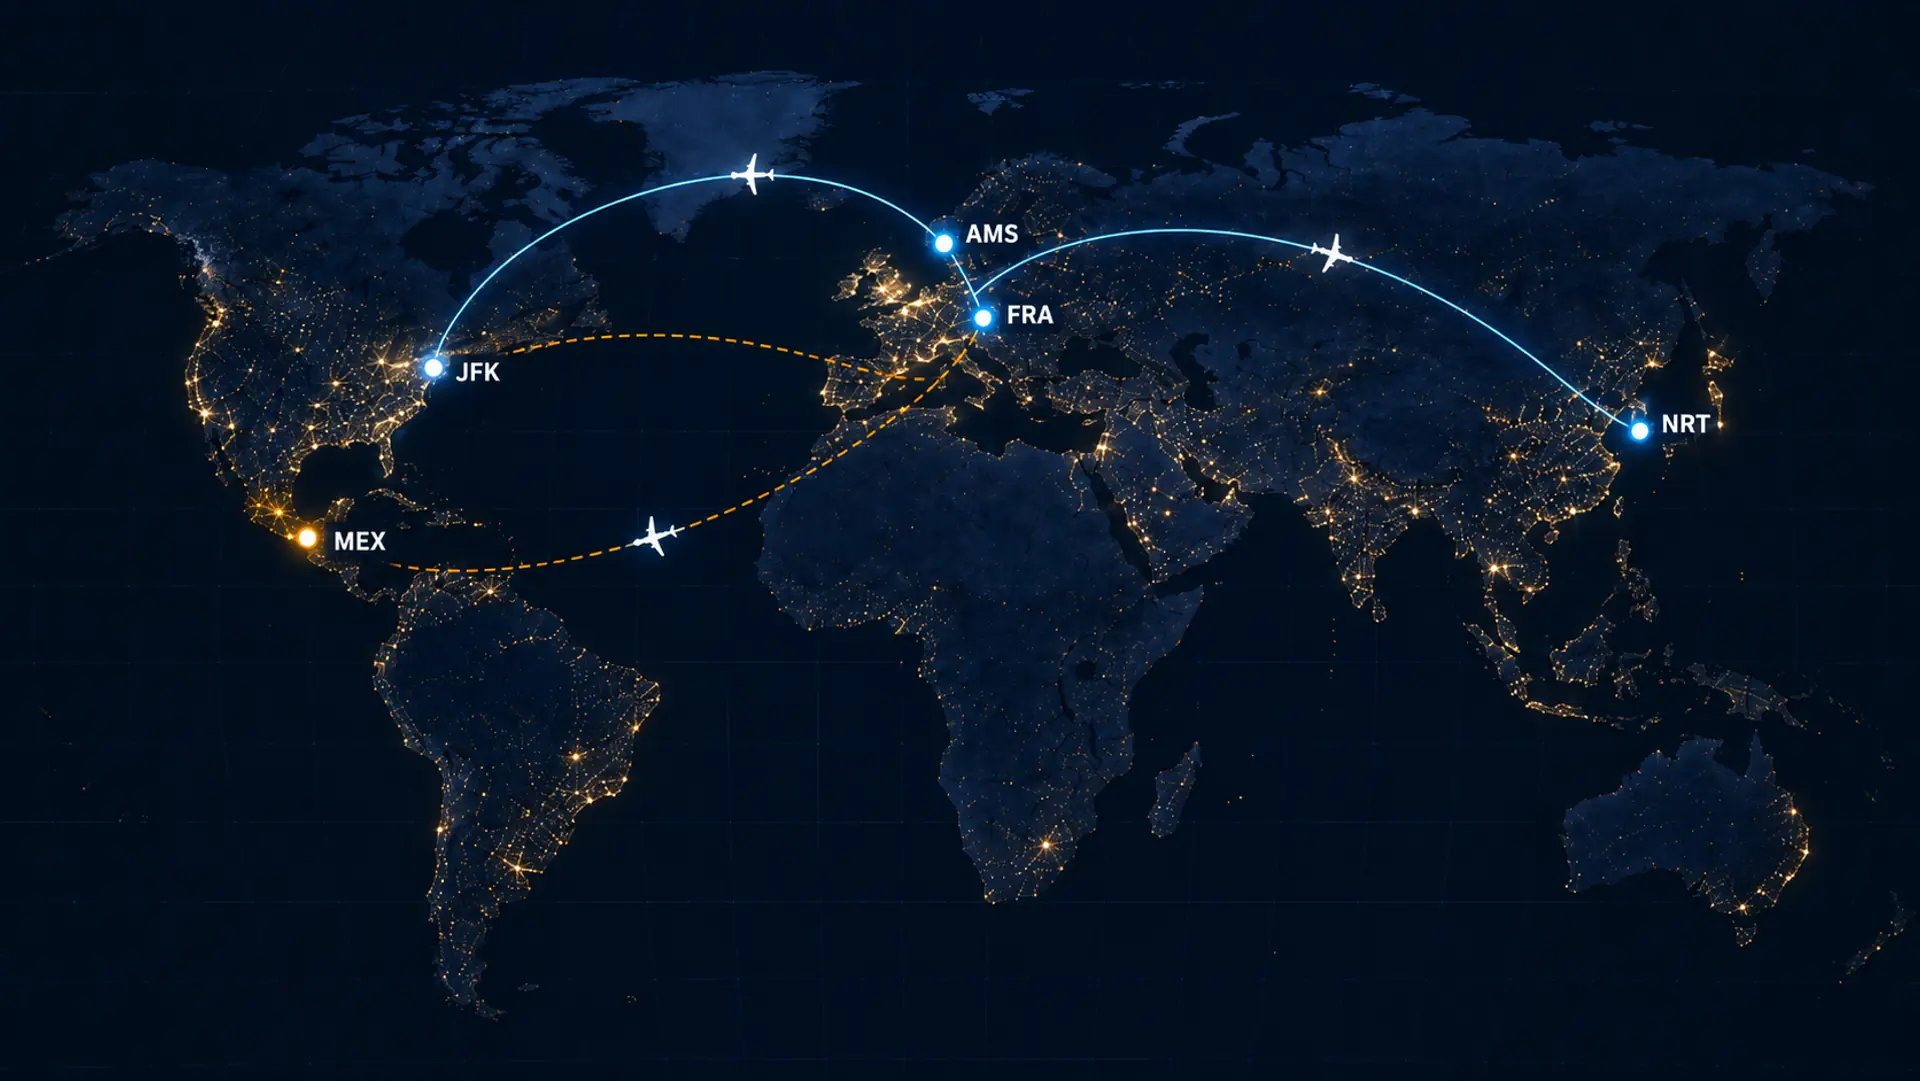
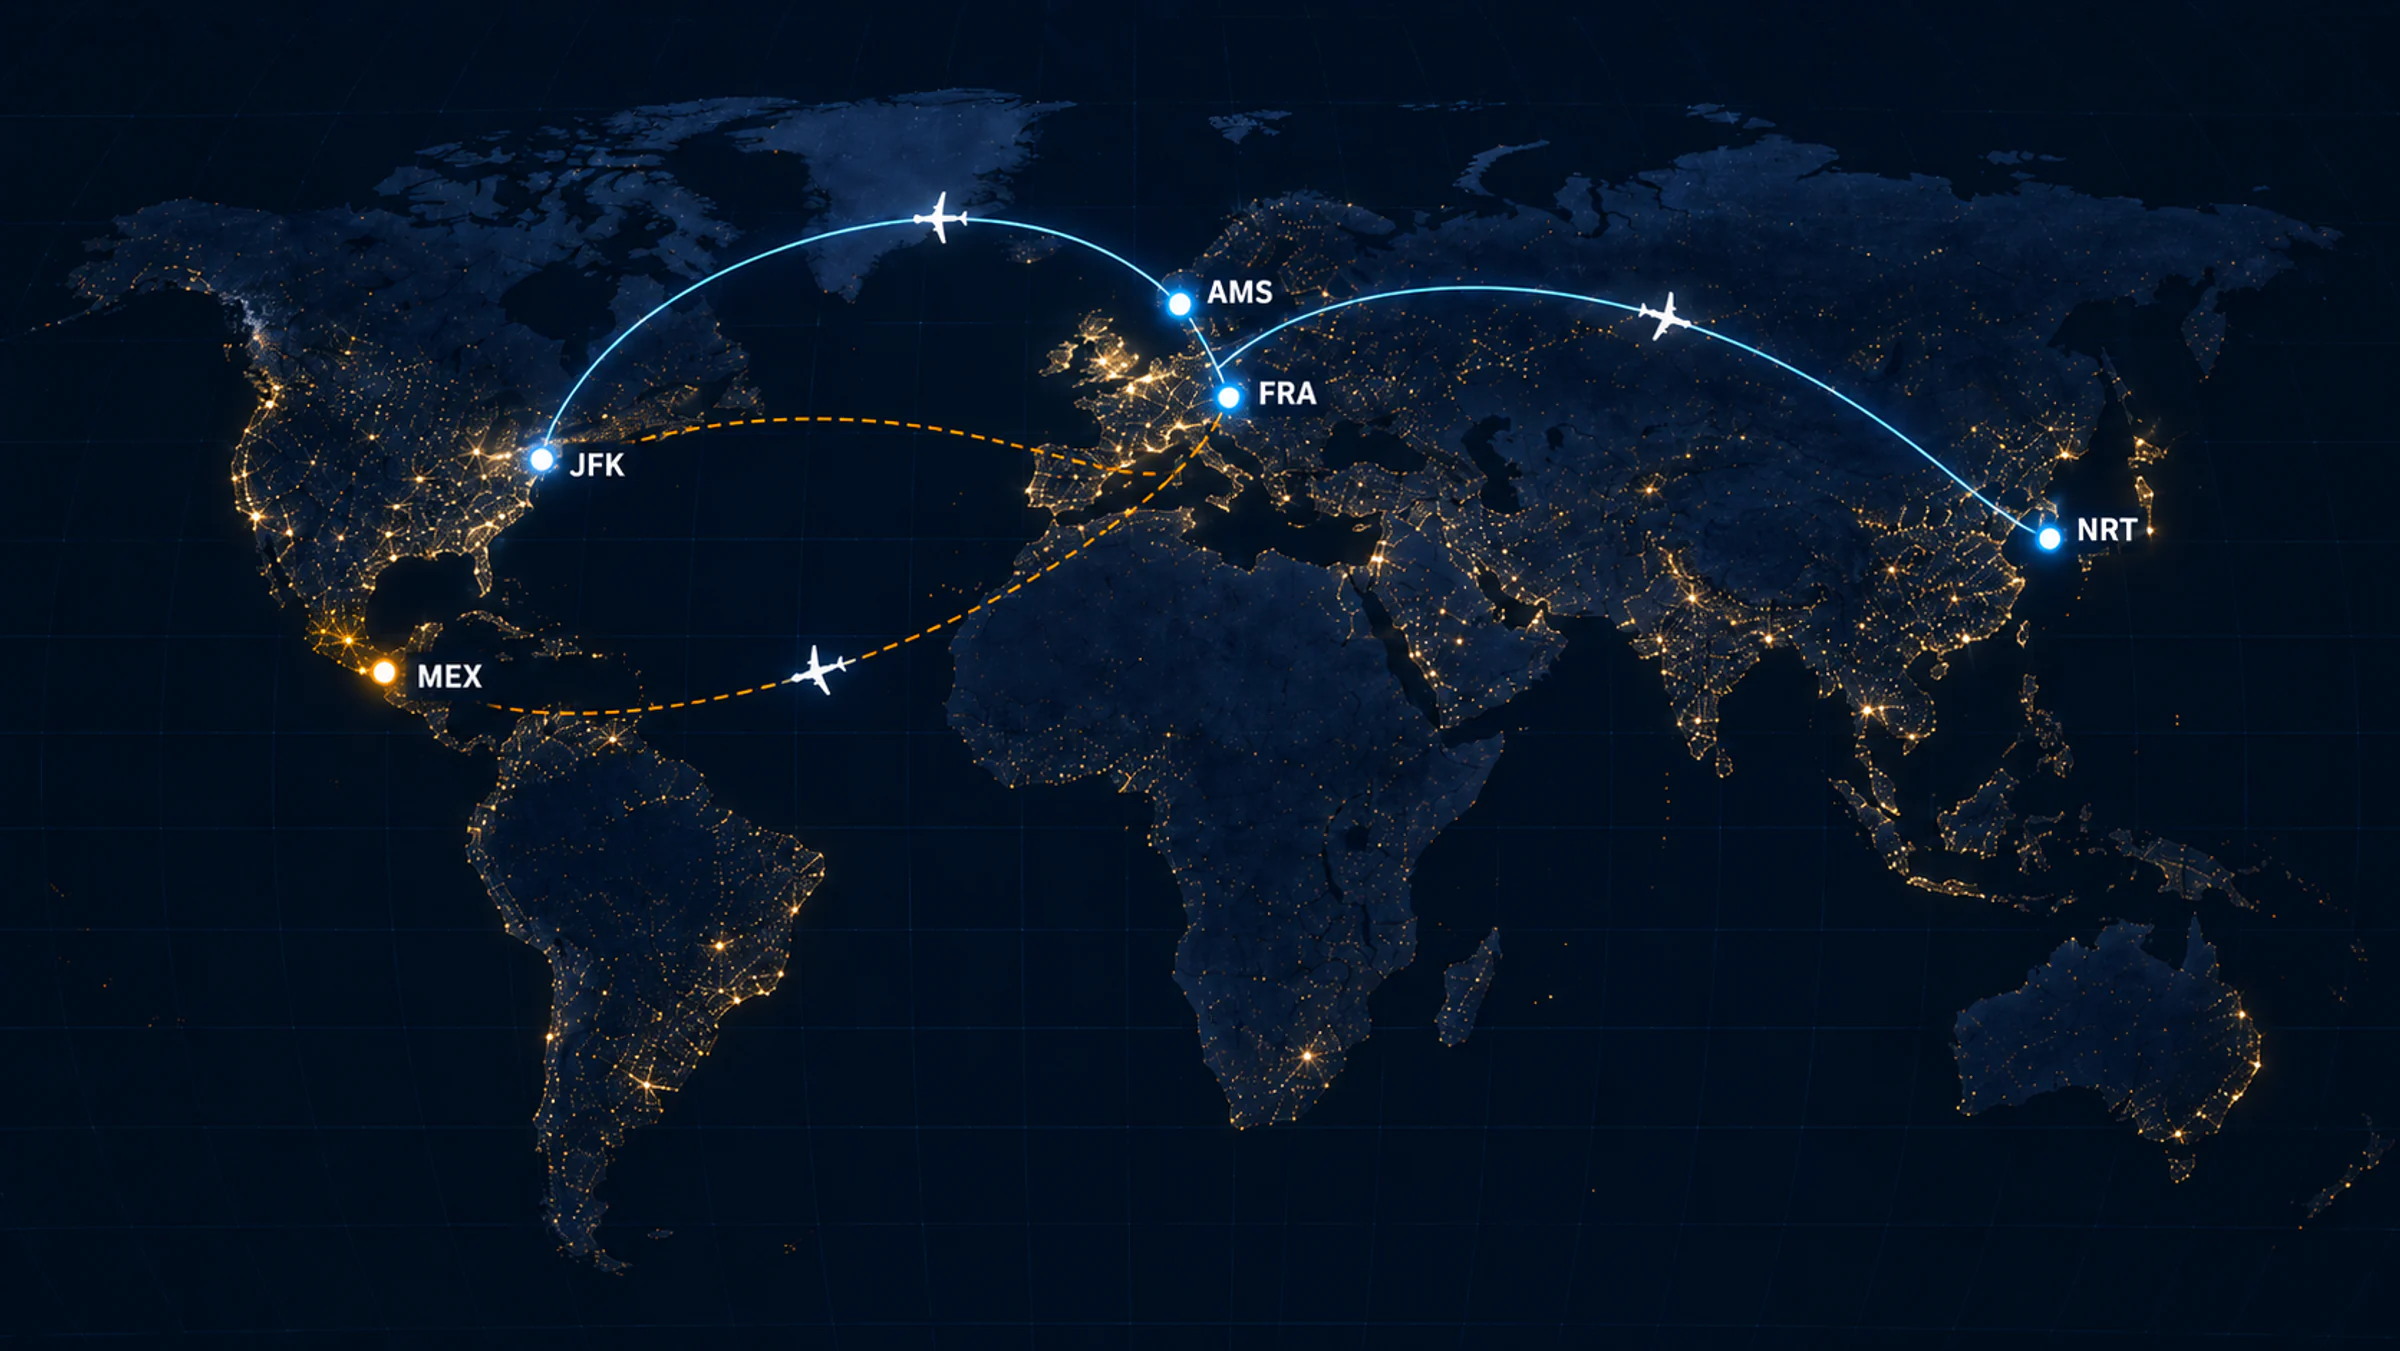
feat(web): move the map right, tint the wash blue, and re-encode it sharper
Three notes from review of the hero, all about the same thing: the Americas were
not readable.

**The map moves right.** It was a full-width `cover` background, which put the
Americas directly under the headline — measuring the mock, its map is inset to
about the right two-thirds and JFK lands near the middle of the page, clear of
the text. So the map is now its own layer at 68% width, anchored right, and JFK
sits at 48% against the mock's 51%.

`cover` cannot express that, and the first attempt at it proved why: the box is
taller than the map is proportioned, so cover scaled to the height and cropped
the sides — taking the Americas off the left edge, which is the opposite of the
point. `background-size: 100% auto` fits the width and letterboxes instead, and a
mask feathers the top and bottom so the map's own deep-navy dissolves into the
page rather than drawing a line across the hero.

**The wash is blue, not black.** It was `--bg` at up to 90% opacity, which
flattened the map to nothing exactly where the Americas are. A blue tint
(`--wash`, the map's own navy) at lower opacity gives the headline the same
contrast floor while leaving coastline and city lights visible through it, so the
left of the hero reads as ocean rather than as a black panel.

**Sharper.** 1920px at quality 72 → **2400px at 86**, lanczos3, 90 kB → 227 kB.
Quality 72 blotches on a dark starfield, which is most of this image, and the map
[…]

Changed region(s): [[0.2188, 0.519, 0.25, 0.5495]]

diff --git a/packages/web/landing/landing.css b/packages/web/landing/landing.css
@@ -26,6 +26,9 @@
   --muted: #8494ad;
   --accent: #ffb84d;
   --link: #4a9eff;
+  /* The map's own deep navy — what the hero's wash is tinted with, so the
+     overlay belongs to the image rather than flattening it to page black. */
+  --wash: #0b1a38;
   /* Provider brand colours: Google blue and Discord blurple, as published. */
   --google: #4285f4;
   --discord: #5865f2;
@@ -198,58 +201,105 @@ a {
   align-items: center;
   min-height: max(34rem, calc(100svh - 4.5rem));
   padding-block: clamp(2rem, 5vw, 4rem);
-
-  /*
-   * The map, and a gradient that makes the text legible over it.
-   *
-   * Two layers in one property so they share a stacking context and neither can
-   * be painted over by a child. The gradient is opaque at the left edge and
-   * clear by 78%, which is what puts the headline on solid ground while leaving
-   * the Pacific and Asia visible — the same balance as the mock.
-   *
-   * `background-color` is set to the page background as well, so the hero is the
-   * right colour before the image arrives and if it never does.
-   */
   background-color: var(--bg);
-  background-image:
-    /* Opaque only where the headline actually sits, then out of the way fast.
-       The first attempt held 62% opacity at the halfway mark and buried the
-       Americas — the very part of the map the mock leaves legible under the
-       copy. Text needs a floor to sit on, not the whole ocean painted out. */
-    linear-gradient(
-      100deg,
-      var(--bg) 0%,
-      rgba(6, 10, 18, 0.9) 18%,
-      rgba(6, 10, 18, 0.55) 36%,
-      rgba(6, 10, 18, 0.16) 56%,
-      rgba(6, 10, 18, 0) 72%
-    ),
-    /* A second wash from the bottom, so the section below meets the map rather
-       than colliding with it. */
-    linear-gradient(to bottom, rgba(6, 10, 18, 0) 55%, var(--bg) 100%),
-    url('/landing-hero.webp');
-  background-repeat: no-repeat;
-  background-position:
-    center,
-    center,
-    center right;
-  background-size: cover, cover, cover;
 }
 
-/* Narrow screens get the map as a quiet texture: at this width the gradient
-   would have to cover almost all of it to keep the text readable, and a map you
-   cannot see is weight without benefit. */
+/*
+ * The map, as its own layer rather than a background on `.hero`.
+ *
+ * A pseudo-element because the map is **inset to the right** rather than
+ * covering the section: measured off the mock, it occupies about the right 72%
+ * of the hero, which is what puts the Americas clear of the headline instead of
+ * underneath it. `background-size: cover` cannot express that — cover fills the
+ * box, so the only way to move the map right is to crop the Americas off the
+ * left, which is the opposite of what is wanted.
+ *
+ * Its own element also means the fades below can sit on top of the map without
+ * also fading the section, and the map can be positioned without fighting the
+ * gradient's own `background-position`.
+ */
+.hero::before {
+  content: '';
+  position: absolute;
+  inset: 0 0 0 auto;
+  width: 68%;
+  background-image: url('/landing-hero.webp');
+  background-repeat: no-repeat;
+  background-position: center;
+  /*
+   * `100% auto`, not `cover`. Cover fills the box, and this box is taller than
+   * the map is proportioned — so cover scales to the height and crops the sides,
+   * which took the Americas off the left edge. Fitting the width shows the whole
+   * world and letterboxes vertically instead.
+   */
+  background-size: 100% auto;
+  /*
+   * The letterbox is why this mask exists. The map carries its own deep-navy
+   * background, and where that meets the page's near-black it draws a horizontal
+   * line across the hero. Feathering the top and bottom dissolves the seam, so an
+   * inset map reads as part of the page rather than as a pasted rectangle.
+   */
+  mask-image: linear-gradient(to bottom, transparent 0%, #000 16%, #000 84%, transparent 100%);
+  pointer-events: none;
+}
+
+/*
+ * The wash over it, and the reason it is blue rather than black.
+ *
+ * The headline needs a floor to sit on, but painting it in the page's near-black
+ * flattens the map to nothing exactly where the Americas are — the part the mock
+ * deliberately keeps legible. A **blue** tint at lower opacity does the same job
+ * for contrast while leaving the coastline and city lights visible through it, so
+ * the left of the hero still reads as ocean rather than as a black panel.
+ *
+ * `--wash` is the map's own deep-navy rather than `--bg`, so the tint belongs to
+ * the image it sits on.
+ */
+.hero::after {
+  content: '';
+  position: absolute;
+  inset: 0;
+  pointer-events: none;
+  background-image:
+    linear-gradient(
+      100deg,
+      var(--wash) 0%,
+      rgba(11, 26, 56, 0.88) 24%,
+      rgba(11, 26, 56, 0.6) 40%,
+      rgba(11, 26, 56, 0.22) 58%,
+      rgba(11, 26, 56, 0) 74%
+    ),
+    /* Feathers the map's left edge into the page so the inset does not read as a
+       pasted rectangle. */
+    linear-gradient(to right, var(--bg) 0%, rgba(6, 10, 18, 0) 26%),
+    /* And the bottom, so the section below meets the map rather than colliding. */
+    linear-gradient(to bottom, rgba(6, 10, 18, 0) 62%, var(--bg) 100%);
+}
+
+/* The copy has to sit above both layers. */
+.hero__grid {
+  z-index: 1;
+}
+
+/*
+ * Narrow screens: the map goes full width and quiet.
+ *
+ * Inset to the right there would leave a strip too small to read as a map, and
+ * the gradient has to cover most of it anyway to keep the text legible.
+ */
 @media (max-width: 48rem) {
-  .hero {
-    background-image:
-      linear-gradient(
-        to bottom,
-        rgba(6, 10, 18, 0.88) 0%,
-        rgba(6, 10, 18, 0.97) 62%,
-        var(--bg) 100%
-      ),
-      url('/landing-hero.webp');
-    background-position: center, center;
+  .hero::before {
+    width: 100%;
+    background-position: center;
+  }
+
+  .hero::after {
+    background-image: linear-gradient(
+      to bottom,
+      rgba(11, 26, 56, 0.82) 0%,
+      rgba(9, 18, 38, 0.94) 58%,
+      var(--bg) 100%
+    );
   }
 }
 

diff --git a/packages/server/src/app.test.ts b/packages/server/src/app.test.ts
@@ -201,9 +201,15 @@ describeDb('HTTP surface', () => {
       expect(res.headers['x-content-type-options']).toBe('nosniff');
       // Immutable art, unlike the document and its styles: a day, not a minute.
       expect(res.headers['cache-control']).toContain('max-age=86400');
-      // LANDING-11 owns this page's weight budget. The source PNG was 1.7 MB;
-      // anything approaching that has come back by accident.
-      expect(res.rawPayload.length).toBeLessThan(200_000);
+      /*
+       * LANDING-11 owns this page's weight budget, and this is the whole of what
+       * it spends on art. The ceiling is deliberately close to the current size
+       * rather than generous: the source PNG was 1.7 MB, and the failure this
+       * catches is somebody committing the original by accident or re-exporting
+       * at a quality nobody costed. Raising it should be a decision with a
+       * sentence attached, which is why it is asserted rather than assumed.
+       */
+      expect(res.rawPayload.length).toBeLessThan(300_000);
     });
 
     it('serves the stylesheet as CSS from the same origin', async () => {
